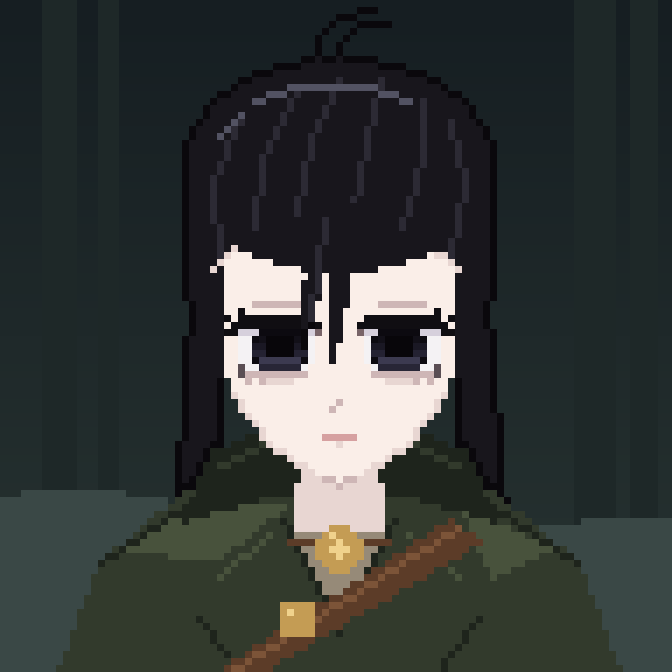
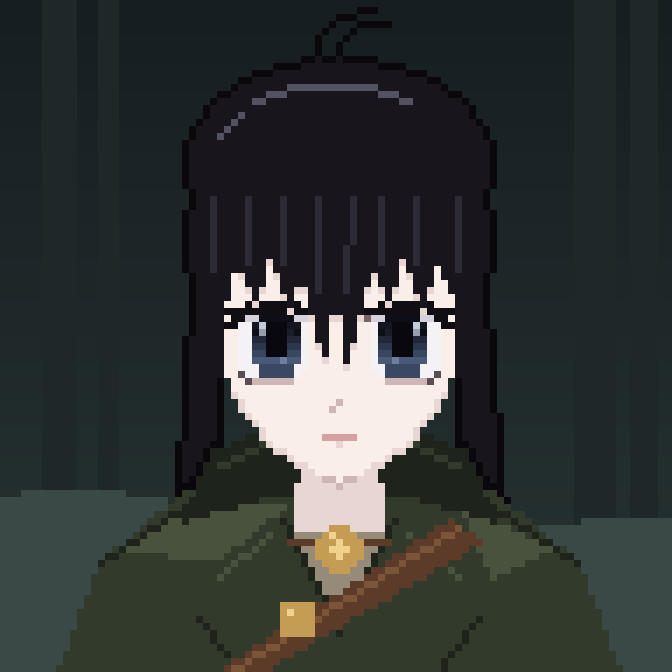
Hunter girl: classic anime bangs and new eye style
Claude-Session: https://claude.ai/code/session_0155yoUibrhMAmrpcv8V9b9L

diff --git a/draw_hunter_girl.py b/draw_hunter_girl.py
@@ -95,60 +95,59 @@ d.line((63, 56, 58, 63), fill=SKIN_SHADE)
 d.line((38, 63, 44, 67), fill=SKIN_SHADE)
 d.line((58, 63, 52, 67), fill=SKIN_SHADE)
 
-# Detailed half-lidded eyes: dark and lightless, calm and blank
-IRIS_ROWS = [(12, 10, 16), (18, 16, 24), (26, 24, 36), (36, 34, 50), (60, 58, 80), (40, 38, 54)]
+# Anime-style eyes: thick tapered lash line, tall iris with dark-to-light gradient
+IRIS_ROWS = [(14, 14, 22), (20, 22, 32), (26, 30, 44), (34, 40, 58), (44, 54, 76),
+             (56, 70, 96), (72, 90, 120), (58, 72, 98)]
+PUPIL = (8, 8, 14)
 SCLERA_SHADE = (214, 208, 220)
 
 def eye(x0, flip):
-    # i = 0 is the outer corner, i = 12 the inner corner
-    xs = (lambda i: x0 + 12 - i) if flip else (lambda i: x0 + i)
+    # i = 0 is the outer corner, i = 11 the inner corner
+    xs = (lambda i: x0 + 11 - i) if flip else (lambda i: x0 + i)
     p = lambda i, y, c: d.point((xs(i), y), fill=c)
-    # double-eyelid crease
-    for i in range(3, 10):
-        p(i, 43, SKIN_DARK)
-    # opening: sclera
-    for y in range(47, 52):
-        for i in range(1, 12):
+    # white of the eye
+    for y in range(45, 53):
+        for i in range(1, 11):
             p(i, y, SCLERA)
-    for i in range(2, 11):
-        p(i, 52, SCLERA)
-    for i in range(1, 12):
-        p(i, 47, SCLERA_SHADE)            # shadow cast by the lid
-    # iris with a dark-to-dim gradient, no highlight
-    for row, y in enumerate(range(47, 53)):
-        lo, hi = (4, 9) if y in (47, 52) else (3, 10)
+    for i in range(2, 10):
+        p(i, 53, SCLERA)
+    for i in range(1, 11):
+        p(i, 45, SCLERA_SHADE)
+    # tall iris
+    for row, y in enumerate(range(45, 53)):
+        lo, hi = (4, 8) if y in (45, 52) else (3, 9)
         for i in range(lo, hi + 1):
             p(i, y, IRIS_ROWS[row])
-    for i in (3, 10):
-        for y in (48, 51):
-            p(i, y, IRIS_ROWS[0])         # darker iris rim
-    for i in range(5, 9):
-        for y in range(48, 51):
-            p(i, y, (8, 6, 10))           # pupil
-    # heavy upper lid with lashes
-    for i in range(1, 12):
-        p(i, 45, LASH)
-    for i in range(0, 13):
-        p(i, 46, LASH)
-    p(0, 47, LASH)
-    p(-1, 45, LASH)                       # outer wing
-    p(-2, 44, LASH)
-    p(-1, 47, LASH)                       # separate lash tick
-    p(1, 44, LASH)
-    p(12, 47, (120, 100, 104))            # inner corner
-    # lower lash line, soft, with a couple of lashes at the outer end
-    for i in range(2, 11):
-        p(i, 53, SKIN_DARK)
-    p(1, 52, (90, 78, 84))
+    for i in range(4, 9):
+        p(i, 53, IRIS_ROWS[-1])
+    for y in range(46, 51):
+        for i in range(5, 8):
+            p(i, y, PUPIL)
+    p(3, 47, IRIS_ROWS[0])
+    p(9, 47, IRIS_ROWS[0])
+    # small soft highlight
+    p(4, 46, (196, 202, 216))
+    p(4, 47, (150, 158, 176))
+    p(7, 51, (110, 126, 156))
+    # thick upper lash line, heaviest at the outer corner
+    for i in range(2, 10):
+        p(i, 43, LASH)
+    for i in range(0, 12):
+        p(i, 44, LASH)
+    p(-1, 44, LASH)
+    p(0, 45, LASH)
+    p(0, 46, LASH)
+    p(-1, 46, LASH)          # outer lash flick
+    p(1, 45, LASH)
+    p(11, 45, (120, 100, 104))
+    # lower lash, short and soft
+    for i in range(3, 9):
+        p(i, 54, SKIN_DARK)
     p(1, 53, (90, 78, 84))
-    p(2, 54, SKIN_DARK)
-    p(4, 54, SKIN_DARK)
-    # faint shade under the eye
-    for i in range(5, 9):
-        p(i, 54, SKIN_SHADE)
+    p(2, 54, (90, 78, 84))
 
 eye(33, flip=False)
-eye(51, flip=True)
+eye(52, flip=True)
 
 # Nose: tiny shadow; mouth: small flat neutral line
 d.point((48, 57), fill=SKIN_DARK)
@@ -157,28 +156,27 @@ d.line((46, 62, 50, 62), fill=LIP)
 d.point((48, 63), fill=SKIN_SHADE)
 
 # --- Front hair ---
-hairline = [(26, 22), (70, 22), (70, 42), (66, 38), (60, 33), (52, 30),
-            (46, 29), (40, 30), (34, 33), (29, 38), (26, 42)]
-# soft shadow just under the hairline
-d.line([(x, y + 1) for x, y in hairline[3:-1]], fill=SKIN_SHADE)
 d.ellipse((26, 8, 70, 38), fill=HAIR)
-d.polygon(hairline, fill=HAIR)
 
-# Swept-back strand lines flowing from the hairline over the head
-for pts in (
-    [(31, 36), (30, 26), (34, 16)],
-    [(36, 32), (37, 22), (42, 13)],
-    [(42, 30), (44, 20), (48, 11)],
-    [(50, 30), (52, 20), (54, 11)],
-    [(57, 32), (60, 22), (60, 14)],
-    [(64, 36), (66, 26), (64, 17)],
-):
-    d.line(pts, fill=HAIR_MID)
-
-# The two long strands left loose over the forehead
-d.polygon([(44, 29), (47, 29), (45, 40), (43, 49)], fill=HAIR)
-d.polygon([(47, 29), (50, 29), (49, 41), (47, 51)], fill=HAIR)
-d.line((46, 31, 44, 45), fill=HAIR_MID)
+# Bangs: pointed clumps of hair, tips resting around the lashes.
+# The two clumps in the middle hang longest, between the eyes.
+# (root_left, root_right, tip_x, tip_y)
+clumps = [
+    (27, 34, 31, 45), (32, 39, 36, 42), (37, 44, 41, 43), (42, 48, 46, 50),
+    (47, 53, 49, 51), (51, 58, 55, 42), (56, 63, 60, 43), (61, 69, 66, 45),
+]
+def clump_poly(rl, rr, tx, ty, dy=0):
+    mid = (28 + ty) // 2
+    return [(rl, 26 + dy), (rr, 26 + dy), (rr - 1, mid + dy), (tx, ty + dy), (rl + 1, mid + dy)]
+# soft shadow cast on the forehead
+for c in clumps[1:-1]:
+    d.polygon(clump_poly(*c, dy=1), fill=SKIN_SHADE)
+for c in clumps:
+    d.polygon(clump_poly(*c), fill=HAIR)
+# strand lines inside each clump
+for rl, rr, tx, ty in clumps:
+    cx = (rl + rr) // 2
+    d.line((cx, 28, (cx + tx) // 2, (28 + ty) // 2 + 2), fill=HAIR_MID)
 
 # Slim, neat side locks
 d.polygon([(27, 36), (31, 40), (31, 52), (29, 62), (27, 54)], fill=HAIR)
